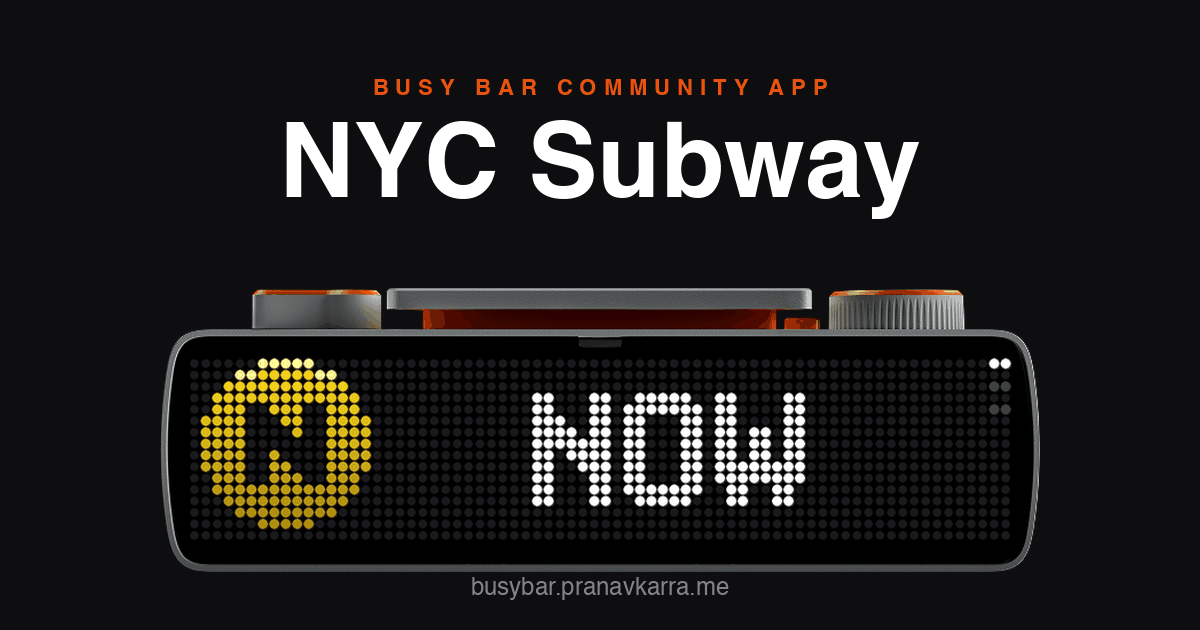
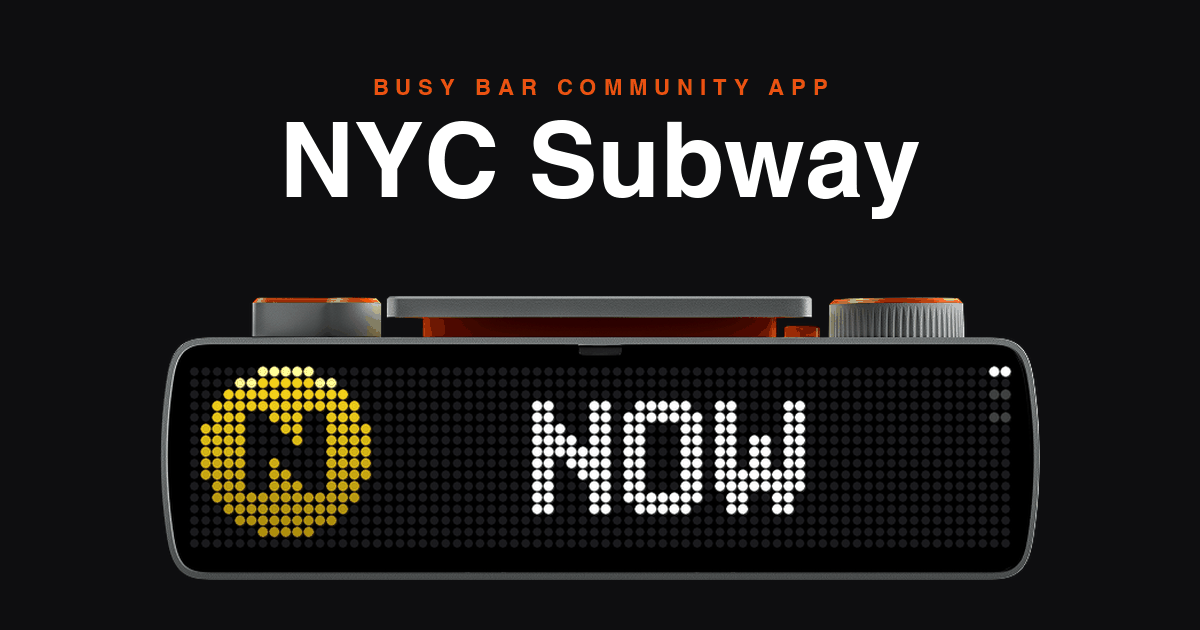
Drop the URL from the OG image

Changed region(s): [[0.1233, 0.4524, 0.8633, 0.9651]]

diff --git a/tools/make_og.py b/tools/make_og.py
@@ -57,12 +57,7 @@ def main() -> None:
     dw = 880
     dh = round(device.size[1] * dw / device.size[0])
     device = device.resize((dw, dh), Image.LANCZOS)
-    im.paste(device, ((W - dw) // 2, 288), device)
-
-    f_url = font(24)
-    url = "busybar.pranavkarra.me"
-    uw = d.textlength(url, font=f_url)
-    d.text(((W - uw) / 2, H - 54), url, font=f_url, fill=FAINT)
+    im.paste(device, ((W - dw) // 2, 296), device)
 
     q = im.convert("P", palette=Image.ADAPTIVE, colors=256)
     q.save(OUT, optimize=True)
